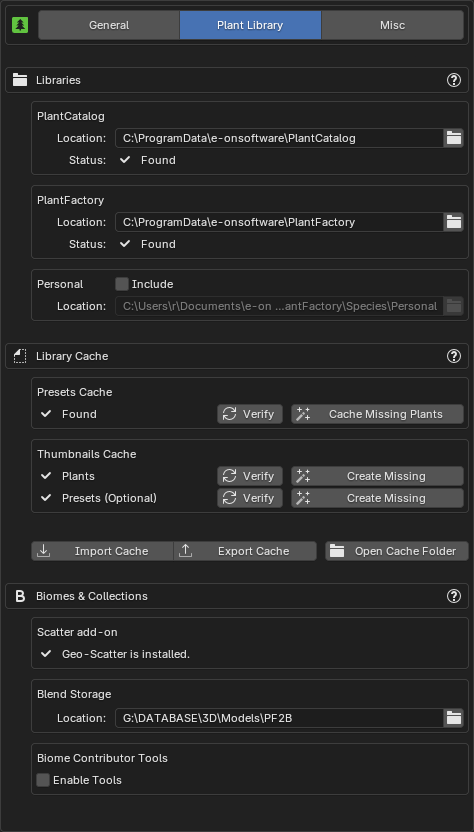
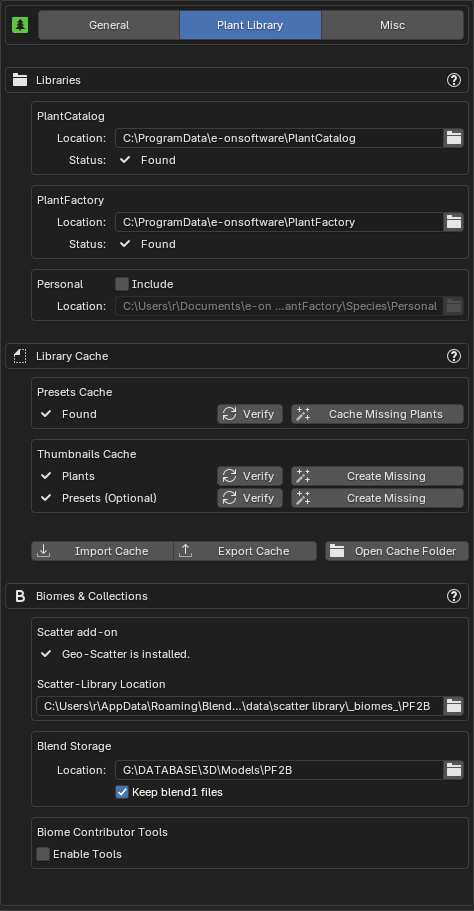
Preparation for upcoming release

Changed region(s): [[0.0295, 0.0, 1.0, 0.9375]]

diff --git a/docs/workflow/utilities.md b/docs/workflow/utilities.md
@@ -4,22 +4,90 @@
 There are several utilities, accessible from the **Utilities** panel, that can be useful after import in certain situations.
 
 
+## LOD Importer
+
+![LOD Importer](../images/utility_lod-importer.webp){ .img-box align=right }
+
+This utility lets you import [Levels of Detail (LODs)](browse_via_blender.md#lods) for PF2B plants that are already in your scene.
+
+Select your plants, choose which LODs you want, and click Import. The utility will retrieve the matching LODs for each plant based on its specific seed, ensuring consistency with your existing plants.
+
+<h5>Options</h5>
+
+- **Selection**
+    - **Selected Plants**
+    - **All Plants in Scene**
+- **Use Biome Naming**: When enabled, plants are renamed following the standard format: `PlantName [Preset|DetailLevel]LOD`. This ensures that Geo-Scatter's 'Auto Setup LODs' can correctly identify and assign the LODs when using these LODs within a Biome with Geo-Scatter's 'Level of Detail' feature (introduced in Geo-Scatter 5.6).
+
+
+!!! info2 "Naming"
+    By default, LOD imports use the same naming rules as your main plant imports (see [Import Settings > Name Settings](import_settings.md#name-settings)).
+
+    Enabling **Use Biome Naming** overrides these rules, applying the strict `PlantName [Preset|DetailLevel]LOD` format.
+
+
+
+## Plant Storer
+
+![Plant Storer](../images/utility_plant-storer.webp){ .img-box align=right }
+
+The **Plant Storer** utility lets you save selected plants from your scene into the structured biome `.blend` files. This allows you to access them directly from your Asset Library.
+
+These plants are stored in the same way as those imported via the [Collections](collections.md) browser, and the storage path can be adjusted in the [Biome & Collections Preferences](../preferences/plant_library.md#blend-storage). Plant Storer is a complementary utility to Collections: while Collections are ready-made groups that might not suit everyone's needs, Plant Storer gives you full control over which plants to save, letting you populate your Asset Library with exactly the plants you want rather than relying on large predefined sets.
+
+- The utility automatically avoids adding duplicate plants.
+- Each plant is marked as an asset and includes metadata to make it easier to find in the Asset Browser.
+- Plants stored using this utility are also available for the [Biomes](biomes.md) function, so any biomes that use these plants can access them directly from the library.
+
+!!! info2 "Example of Stored Plants"
+    The plants are stored in structured `.blend` files and can also be accessed in your Asset Browser, where everything is categorized, tagged, and presented with clear thumbnails.
+
+    ![Blend files](../images/biome_collection_blend-files.webp){ .img-box }
+
+    ![Asset Browser](../images/biome_collection_library-example.webp){ .img-box .on-glb }
+
+### Notes
+
+- Only plants from the [PlantCatalog Library](../plants.md#plantcatalog-library) can be stored.
+- Plants that are **not LOD0** (base plants) or that use **Import Overrides** cannot be stored.
+- When stored, the plant names are automatically set to: `PlantName [Preset|DetailLevel]`.
+
+    !!! info2 ""
+        If you want to store these types (or other custom plant types), you can do so in your own separate `.blend` files. These must be **manually stored** and can be placed in the same location as the biome files, but please **keep the original blend files starting with `pf2b-biome` intact**.
+
+
+
 ## Plant Renamer
 
-![biomes](../images/utility_plant-renamer.webp){ .img-box align=right }
+![Plant Renamer](../images/utility_plant-renamer.webp){ .img-box align=right }
 
 Renames selected plant objects in the scene after import. The naming follows the same settings used during import but is applied retroactively. You can choose to select all plants in the scene or manually select the plants you want to rename.
 
-For more information on how the renaming works, see [Import Settings > Name Settings](import_settings.md#name-settings).
+<h5>Options</h5>
+
+- **Selection**
+    - **Selected Plants**
+    - **All Plants in Scene**
+
+!!! info2 ""
+    For more information on how the renaming works, see [Import Settings > Name Settings](import_settings.md#name-settings).
 
 <div style="clear:both"></div>
 
+
+
 ## Reset Asset Thumbnails
 
-![biomes](../images/utility_reset-asset-thumbnail.webp){ .img-box align=right }
+![Reset Asset Thumbnails](../images/utility_reset-asset-thumbnail.webp){ .img-box align=right }
 
 Restores missing or modified asset previews to their original images.
 
 This function allows you to restore the original thumbnails (asset previews) for any plant assets imported through the PF2B addon. If a thumbnail was accidentally deleted, modified, or lost, you can use this tool to revert it back to the default preview without reimporting the plant. This is particularly useful for maintaining a clean and consistent look in the Blender Asset Browser, ensuring that all assets display the correct preview images.
 
-![biomes](../images/utility_reset-asset-thumbnail_example.webp){ .img-box }
+<h5>Options</h5>
+
+- **Selection**
+    - **Selected Plants**
+    - **All Plants in Scene**
+
+![Reset Asset Thumbnails](../images/utility_reset-asset-thumbnail_example.webp){ .img-box }

diff --git a/docs/workflow/biomes.md b/docs/workflow/biomes.md
@@ -68,7 +68,7 @@ Similar to the regular **Info Popup**, but this one checks whether the actual pl
         Note: This check only looks at the root folder defined in `PF2B Preferences > Plant Library > Blend Storage`. If you have moved your blend files elsewhere or into subdirectories, they may appear in red in this popup. However, they will still work in the biome as long as the blend files are inside your Asset Library, where Geo-Scatter or Biome-Reader can find them.
 
 === "Check PlantCatalog Library"
-    Checks whether the plants in the biome are installed in your PlantCatalog library on disk, regardless of whether they are in the biome `.blend` files.
+    Checks whether the plants in the biome are installed in your [PlantCatalog library](../plants.md#plantcatalog-library) on disk, regardless of whether they are in the biome `.blend` files.
 
     ![Biomes Info Popup](../images/biome_installed-plants_tpf.gif){ .img-box align=left  }
 
@@ -96,8 +96,6 @@ Once the process is complete, the biome becomes available in the scattering plug
 === "Biome-Reader"
     ![Biomes Info Popup](../images/biome_browse_biome-reader.webp){ .img-box }
 
-> 👉 For instructions on using Geo-Scatter or Biome-Reader, please check [www.geoscatter.com](https://www.geoscatter.com/index.html)
-
 
 !!! info2 "Where the Biomes are Stored"
     Your `.blend` files are organized in the Asset Library location defined in `Preferences > Plant Library > Biomes & Collections > Blend Storage`.
@@ -113,3 +111,50 @@ Once the process is complete, the biome becomes available in the scattering plug
     …and inside your Asset Browser, where everything is categorized, tagged, and presented with clear thumbnails:
 
     ![Blend files](../images/biome_collection_library-example.webp){ .img-box .on-glb }
+
+
+## Using Biomes
+
+![Video](../images/video_placeholder.png)
+
+
+<!-- <div class="youtube-wrapper">
+    <iframe id="videoPlayer" width="560" height="315" src="https://www.youtube.com/embed/TGN_FiNH3aw?rel=0" frameborder="0" allowfullscreen></iframe>
+</div> -->
+
+> 🎥 The video above gives a quick overview of Biome functionality.
+> 👉 For detailed step-by-step instructions on using Geo-Scatter or Biome-Reader, please check [www.geoscatter.com](https://www.geoscatter.com/index.html)
+
+
+
+### Using LODs with Geo-Scatter
+
+!!! warning ""
+    This section applies **only to Geo-Scatter**. Biome-Reader does not support LODs.
+
+If you need more performance in the viewport, you can use the **Level of Detail** functionality introduced in Geo-Scatter 5.6. You'll find it under `Viewport > Level of Detail`.
+
+<h5>Setup Steps</h5>
+
+1. **Import LODs in PF2B**
+    - Navigate to the [LOD Importer](utilities.md#lod-importer) utility in PF2B.
+    - Choose between:
+        - `All Plants in Scene` (import LODs for every plant)
+        - `Selected Plants` (import only for the plants you select in the **Geo-Scatter Import** collection via the Outliner).
+    - Enable the **Use Biome Naming** checkbox. This ensures plants are renamed using the standard format `PlantName [Preset|DetailLevel]LOD`, so that Geo-Scatter can correctly identify them for the **Auto Setup LODs** function.
+    - Check the LOD tickboxes for the levels you want to bring in.
+    - Click **Import**.
+
+- **Enable in Geo-Scatter**
+    - In the Geo-Scatter panel, **first select the layer** you want to optimize.
+    - With that layer selected, open `Viewport > Level of Detail` for the layer and click **Auto Setup** to link the imported LODs.
+
+- **Fine-Tune**
+    - Adjust the **Transition** settings to your preference for smoother LOD switching.
+
+Once configured, you’ll notice a more responsive viewport.
+
+!!! info2 "Note"
+    The LOD feature mainly benefits **viewport performance** and rarely improves render times.
+
+    For best results, set the **Visibility State** as shown below so that LODs are active only in the viewport and not during rendering: ![Visibility State](../images/geo-scatter_visibility-state_2.webp)

diff --git a/docs/preferences/plant_library.md b/docs/preferences/plant_library.md
@@ -4,8 +4,8 @@
 
 Here you can adjust the locations of your plant libraries. These usually don’t need to be changed if you’ve installed everything in the default location, but you can adjust them if needed. The interface will indicate if the libraries are found.
 
-- **PlantCatalog**: The location of the PlantCatalog library folder, which should contain categorized subfolders for each plant type. Within these subfolders, you should find the actual `.tpf` plant files. Read more [here](../getting_started.md#installation-plantcatalog-plant-library) about how to install this library.
-- **PlantFactory**: The location of the PlantFactory library folder, which should contain multiple subfolders, including the `Species` folder that holds the actual `.tpf` plant files. This library contains the plants that ship with the PlantFactory application itself.
+- **PlantCatalog**: The location of the [PlantCatalog library](../plants.md#plantcatalog-library) folder, which should contain categorized subfolders for each plant type. Within these subfolders, you should find the actual `.tpf` plant files. Read more [here](../getting_started.md#installation-plantcatalog-plant-library) about how to install this library.
+- **PlantFactory**: The location of the [PlantFactory library](../plants.md#plantfactory-library) folder, which should contain multiple subfolders, including the `Species` folder that holds the actual `.tpf` plant files. This library contains the plants that ship with the PlantFactory application itself.
 - **Personal**: Enable this option if you have custom plants to include, and select the folder containing them. This folder can contain subfolders to organize the plants into categories.
 
     !!! info2 ""
@@ -102,14 +102,16 @@ To avoid rebuilding the entire cache, you can import or export an existing cache
 
 ### Scatter add-on
 
-Displays a verification indicating whether Geo-Scatter or Biome-Reader is installed and provides links if they are not found.
+Displays a verification of whether Geo-Scatter or Biome-Reader is installed, and provides links if they are not found.
 
+- **PF2B Scatter-Library Location**: Only change this setting if you have modified the "Scatter-Library Location" in the Geo-Scatter or Biome-Reader add-on. Otherwise, leave it unchanged. If you did change the location, this path must point to a subfolder within the add-on’s selected path, and that subfolder must be named "PF2B".
 
 
 ### Blend Storage
 
-Specifies the location for storing exported plant `.blend` files so that Biome-Reader or Geo-Scatter can find them. These files can usually be stored in any of the Asset Library locations you have set in Blender preferences.
+Specifies the location for storing exported plant `.blend` files so that Biome-Reader or Geo-Scatter can find them. These files can usually be stored in any of the Asset Library locations set in Blender preferences.
 
+- **Keep blend1 files**: Blender automatically creates `.blend1` backup files whenever data is stored in biome blend files. These backups are not used by PF2B and can take up significant space in large libraries. Enable this option if you wish to keep them.
 
 ### Biome Contributor Tools
 
@@ -117,7 +119,7 @@ Enable this mode if you want to contribute new biomes to PF2B. It provides addit
 
 - Adding example biomes to the biome collection.
 - A shortcut to the internal biome folder.
-- Links to [specific documentation](../support/create_your_own_biome.md) for building your own biomes to distribute with PF2B.
+- Links to [specific documentation](../support/create_your_own_biome.md) for creating your own biomes to distribute with PF2B.
 
 ![Biome Contributor Tools](../images/preferences_plant-library_biome_biome-contributor-tools.webp){ .img-box }
 

diff --git a/docs/support/faq.md b/docs/support/faq.md
@@ -206,7 +206,7 @@ tags:
     - If this occurs with plants from the PlantCatalog & PlantFactory libraries, you can download and install the cache as described [here](../getting_started.md#first-time-use-importing-cache).
     - If this affects other plants, you can regenerate the cache using the tools available in [Preferences > Plant Library](../preferences/plant_library.md#library-cache).
 
-    **Note:** Not all plants in the *'PlantFactory library'* have presets available.
+    **Note:** Not all plants in the [PlantFactory library](../plants.md#plantfactory-library) have presets available.
 
 
 ---
@@ -218,7 +218,7 @@ tags:
 :   This error means PlantFactory is unable to locate the specific `.tpf` file for the plant.
     If the missing plants are from the **PlantCatalog** library, please verify that you have installed all PlantCatalog files as described in the [Getting Started > Installation](../getting_started.md#installation-plantcatalog-plant-library).
 
-    If you have not installed the full PlantCatalog library and do not wish to do so (as it is optional), you can run the [Re-Index Plants](../preferences/misc.md#plants-thumbnails) tool to ensure only available plants are shown in your library.
+    If you have not installed the full [PlantCatalog library](../plants.md#plantcatalog-library) and do not wish to do so (as it is optional), you can run the [Re-Index Plants](../preferences/misc.md#plants-thumbnails) tool to ensure only available plants are shown in your library.
 
 
 ---
@@ -247,7 +247,7 @@ tags:
 
 ### Do I have to install the entire PlantCatalog library?
 
-:   No, installing the full library is not required. If you only plan to use the [Browse via PlantFactory](../workflow/browse_via_plantfactory.md) mode, you can skip the installation entirely. However, if you plan to use the [Browse via Blender](../workflow/browse_via_blender.md) mode, you can install only the parts of the library you need. See [How can I hide PlantCatalog plants if I don’t want to install the full library?](#how-can-i-hide-plantcatalog-plants-if-i-dont-want-to-install-the-full-library) for more details.
+:   No, installing the full [PlantCatalog library](../plants.md#plantcatalog-library) is not required. If you only plan to use the [Browse via PlantFactory](../workflow/browse_via_plantfactory.md) mode, you can skip the installation entirely. However, if you plan to use the [Browse via Blender](../workflow/browse_via_blender.md) mode, you can install only the parts of the library you need. See [How can I hide PlantCatalog plants if I don’t want to install the full library?](#how-can-i-hide-plantcatalog-plants-if-i-dont-want-to-install-the-full-library) for more details.
 
 
 ---
@@ -255,7 +255,7 @@ tags:
 
 ### How can I hide PlantCatalog plants if I don’t want to install the full library?
 
-:   If you have not installed the full PlantCatalog library and do not wish to do so (as it is optional), you can run the [Re-Index Plants](../preferences/misc.md#plants-thumbnails) tool to ensure only available plants are shown in your library.
+:   If you have not installed the full [PlantCatalog library](../plants.md#plantcatalog-library) and do not wish to do so (as it is optional), you can run the [Re-Index Plants](../preferences/misc.md#plants-thumbnails) tool to ensure only available plants are shown in your library.
 
 
 ---

diff --git a/docs/workflow/collections.md b/docs/workflow/collections.md
@@ -75,7 +75,7 @@ Here you can check whether the actual plants are present in your library. There 
         Note: This check only looks at the root folder defined in `PF2B Preferences > Plant Library > Blend Storage`. If you have moved your blend files elsewhere or into subdirectories, they may appear in red in this popup. However, they will still work in the biome as long as the blend files are inside your Asset Library, where Geo-Scatter or Biome-Reader can find them.
 
 === "Check PlantCatalog Library"
-    Checks whether the plants in the biome are installed in your PlantCatalog library on disk, regardless of whether they are in the biome `.blend` files.
+    Checks whether the plants in the biome are installed in your [PlantCatalog library](../plants.md#plantcatalog-library) on disk, regardless of whether they are in the biome `.blend` files.
 
     ![Biomes Info Popup](../images/biome_collection_installed-plants_tpf.gif){ .img-box align=left }
 
@@ -98,4 +98,8 @@ After importing the collections you want, you should see something like this. Th
 
 …and inside your Asset Browser, where everything is categorized, tagged, and presented with clear thumbnails:
 
-![Blend files](../images/biome_collection_library-example.webp){ .img-box .on-glb }
+![Asset Browser](../images/biome_collection_library-example.webp){ .img-box .on-glb }
+
+
+!!! info2 ""
+    Need to store additional plants in the Biome Library that aren't available as Collections? Check out the [Plant Storer](utilities.md#plant-storer) utility.

diff --git a/docs/workflow/biomes_and_collections.md b/docs/workflow/biomes_and_collections.md
@@ -21,7 +21,7 @@ Both systems write to the same `.blend` asset files, giving you a **unified libr
 
 ## [Biomes](biomes.md)
 
-In PF2B, a **biome** is a ready-made collection of plants designed to quickly build natural environments. Biomes are more than just plant lists, they are structured setups designed to work exclusively with third-party scattering plugins developed by **bd3d**:
+In PF2B, a **biome** is a ready-made collection of plants designed to quickly build natural environments. Biomes are more than just plant lists, they are structured setups designed to work exclusively with third-party scattering add-ons developed by **bd3d**:
 
 - **[Geo-Scatter](https://www.geoscatter.com/download.html#geo-scatter)** (commercial)
 - **[Biome-Reader](https://www.geoscatter.com/download.html#biome-reader)** (free)
@@ -39,7 +39,7 @@ These plugins handle the actual scattering of plants in your scene, making it ea
 
 ## [Collections](collections.md)
 
-Collections are **plant groups for bulk importing** into your Blender Asset Library. They let you quickly populate categories of plants for use in the Asset Browser, without waiting for on-demand imports.
+Collections are **plant groups for bulk importing** into your Blender Asset Library. They let you quickly populate categories of plants for use in the Asset Browser, without waiting for on-demand imports. For this functionality, no external third-party add-ons are required.
 
 
 !!! info2 ""

diff --git a/docs/workflow/browse_via_blender.md b/docs/workflow/browse_via_blender.md
@@ -9,7 +9,7 @@
     - PlantFactory
     - Personal: visible if enabled in the preferences.
 - **Category**: Shows plant categories for the selected library.
-- **Detail Filter**: Filter plant catalog items by detail level (Only available for the `PlantCatalog` library).
+- **Detail Filter**: Filter plant catalog items by detail level (Only available for the [PlantCatalog library](../plants.md#plantcatalog-library)).
     - **All**: Show all detail levels.
     - **FG Only**: Show full geometry only.
     - **HD Only**: Show high detail only.
@@ -198,7 +198,7 @@ If we look at an individual plant inside the gallery we have the following butto
 #### Presets
 
 ![preset Gallery top panel](../images/gallery_presets_top-panel.webp){ .img-box .on-glb }
-Here you will also find the Size & Search fields and if you are browsing the `PlantCatalog library` there are additional filters available:
+Here you will also find the Size & Search fields and if you are browsing the [PlantCatalog library](../plants.md#plantcatalog-library) there are additional filters available:
 
 - **Min Height** & **Max Height**: Lets you filter presets based on the plant height.
 - **Min Polygons** & **Max Polygons**: Lets you filter presets based on the plant polygon count.

diff --git a/docs/workflow/import_settings.md b/docs/workflow/import_settings.md
@@ -13,7 +13,7 @@ These settings are shared between both Import modes.
 
     <div style="clear:both"></div>
 
-- **Merge duplicate Materials**: When enabled, this option ensures that imported plants reuse existing materials in the scene if names match (e.g. Leaf, Bark). This prevents Blender from generating duplicates like Leaf.001, helping maintain a cleaner and more organized material list across multiple imports.
+- **Merge duplicate Materials**: When enabled, this option ensures that imported plants reuse existing materials in the scene if names match (e.g. `Leaf`, `Bark`). This prevents Blender from generating duplicates like `Leaf.001`, helping maintain a cleaner and more organized material list across multiple imports.
 - **Categorize into Collections**: Automatically place imported plants into sub-collections (e.g. Broadleaf Trees, Bushes, Grass) for easier scene organization.
 
     !!! inline abstract "Categories Example"
